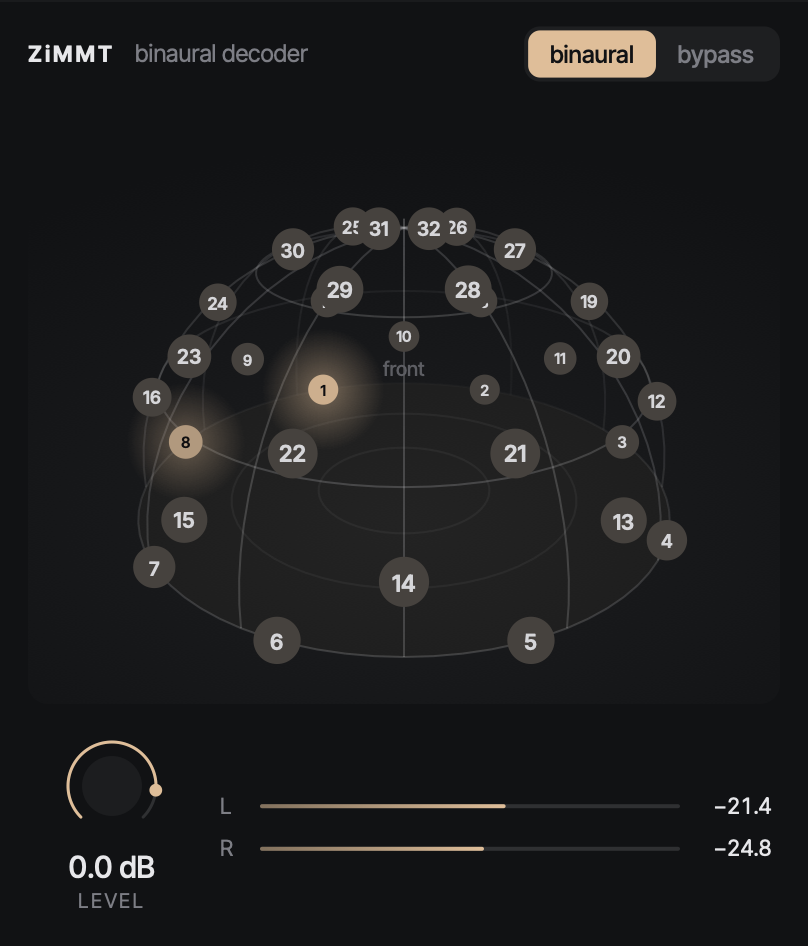
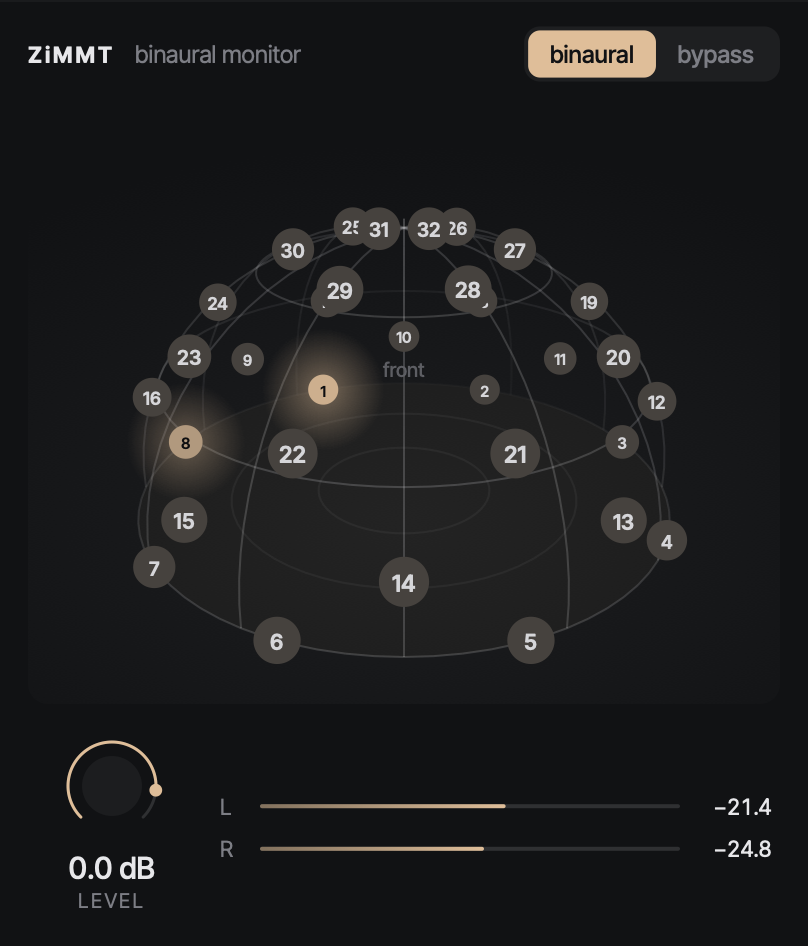
rename

diff --git a/PluginProcessor.cpp b/PluginProcessor.cpp
@@ -310,7 +310,7 @@ juce::AudioProcessorEditor* AudioPluginAudioProcessor::createEditor()
 //==============================================================================
 void AudioPluginAudioProcessor::getStateInformation (juce::MemoryBlock& destData)
 {
-    juce::XmlElement xml ("ZiMMTBinauralDecoder");
+    juce::XmlElement xml ("ZiMMTBinauralMonitor");
     xml.setAttribute ("mode", currentMode.load());
     xml.setAttribute ("levelDb", (double) levelDb.load());
     xml.setAttribute ("mutes", juce::String ((juce::int64) muteMask.load()));
@@ -322,7 +322,7 @@ void AudioPluginAudioProcessor::setStateInformation (const void* data, int sizeI
 {
     const auto xml = getXmlFromBinary (data, sizeInBytes);
 
-    if (xml == nullptr || ! xml->hasTagName ("ZiMMTBinauralDecoder"))
+    if (xml == nullptr || ! xml->hasTagName ("ZiMMTBinauralMonitor"))
         return;
 
     currentMode.store (xml->getIntAttribute ("mode", 0) == 1 ? 1 : 0);

diff --git a/PluginEditor.cpp b/PluginEditor.cpp
@@ -601,7 +601,7 @@ void AudioPluginAudioProcessorEditor::paint (juce::Graphics& g)
     Fonts::draw (g, wordmark, "ZiMMT", layout::pad, mid);
 
     g.setColour (theme.mu);
-    Fonts::draw (g, fonts.regular (12.0f), "binaural decoder",
+    Fonts::draw (g, fonts.regular (12.0f), "binaural monitor",
                  layout::pad + Fonts::width (wordmark, "ZiMMT") + 10.0f, mid);
 }
 

diff --git a/README.md b/README.md
@@ -1,6 +1,6 @@
-# ZiMMT Binaural Decoder
+# ZiMMT Binaural Monitor
 
-A real-time binaural decoder for the 32-channel hemispherical loudspeaker array of the Center for Immersive Media Art, Music and Technology (ZiMMT) in Leipzig. The plugin performs partitioned convolution using measured BRIRs from a dummy head equipped with DPA microphones, enabling binaural monitoring of spatial audio productions.
+A real-time binaural monitor for the 32-channel hemispherical loudspeaker array of the Center for Immersive Media Art, Music and Technology (ZiMMT) in Leipzig. The plugin performs partitioned convolution using measured BRIRs from a dummy head equipped with DPA microphones, enabling binaural monitoring of spatial audio productions.
 
 <p align="center">
   <img src="docs/images/binaural.png" alt="Binaural mode" width="380">
@@ -9,7 +9,7 @@ A real-time binaural decoder for the 32-channel hemispherical loudspeaker array 
 
 ## Download
 
-Pre-built binaries for Windows, macOS, and Linux are available on the [Releases page](https://github.com/ZiMMT-Lab/ZiMMTBinauralDecoder/releases).
+Pre-built binaries for Windows, macOS, and Linux are available on the [Releases page](https://github.com/ZiMMT-Lab/ZiMMTBinauralMonitor/releases).
 
 ## Build Instructions
 
@@ -20,16 +20,16 @@ Pre-built binaries for Windows, macOS, and Linux are available on the [Releases 
 
 ### Building from Source
 ```bash
-git clone --recursive https://github.com/ZiMMT-Lab/ZiMMTBinauralDecoder.git
-cd ZiMMTBinauralDecoder
+git clone --recursive https://github.com/ZiMMT-Lab/ZiMMTBinauralMonitor.git
+cd ZiMMTBinauralMonitor
 git submodule update --init --recursive  
 cmake -B build -DCMAKE_BUILD_TYPE=Release
 cmake --build build --config Release
 ```
 
 Built plugins will be located in:
-- **VST3**: `build/ZiMMTBinauralDecoder_artefacts/Release/VST3/`
-- **Standalone**: `build/ZiMMTBinauralDecoder_artefacts/Release/Standalone/`
+- **VST3**: `build/ZiMMTBinauralMonitor_artefacts/Release/VST3/`
+- **Standalone**: `build/ZiMMTBinauralMonitor_artefacts/Release/Standalone/`
 
 ## License
 
